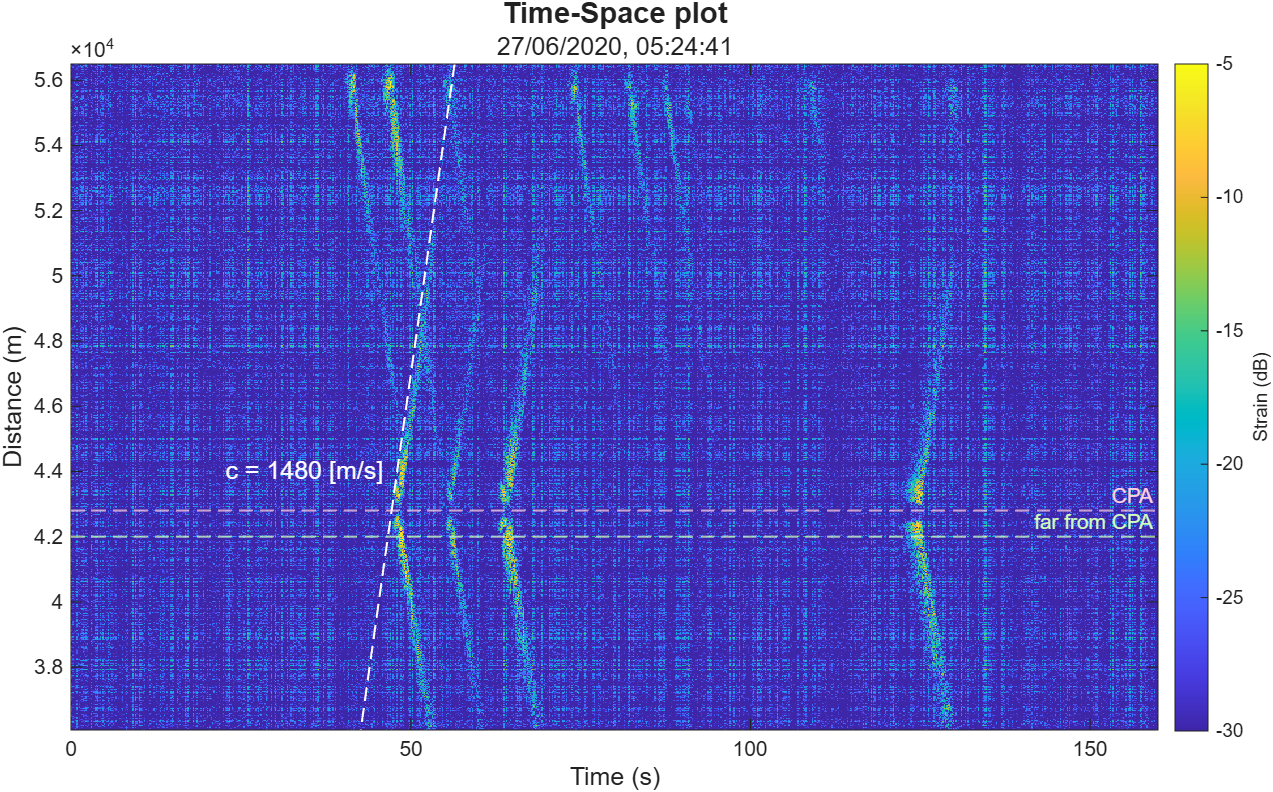
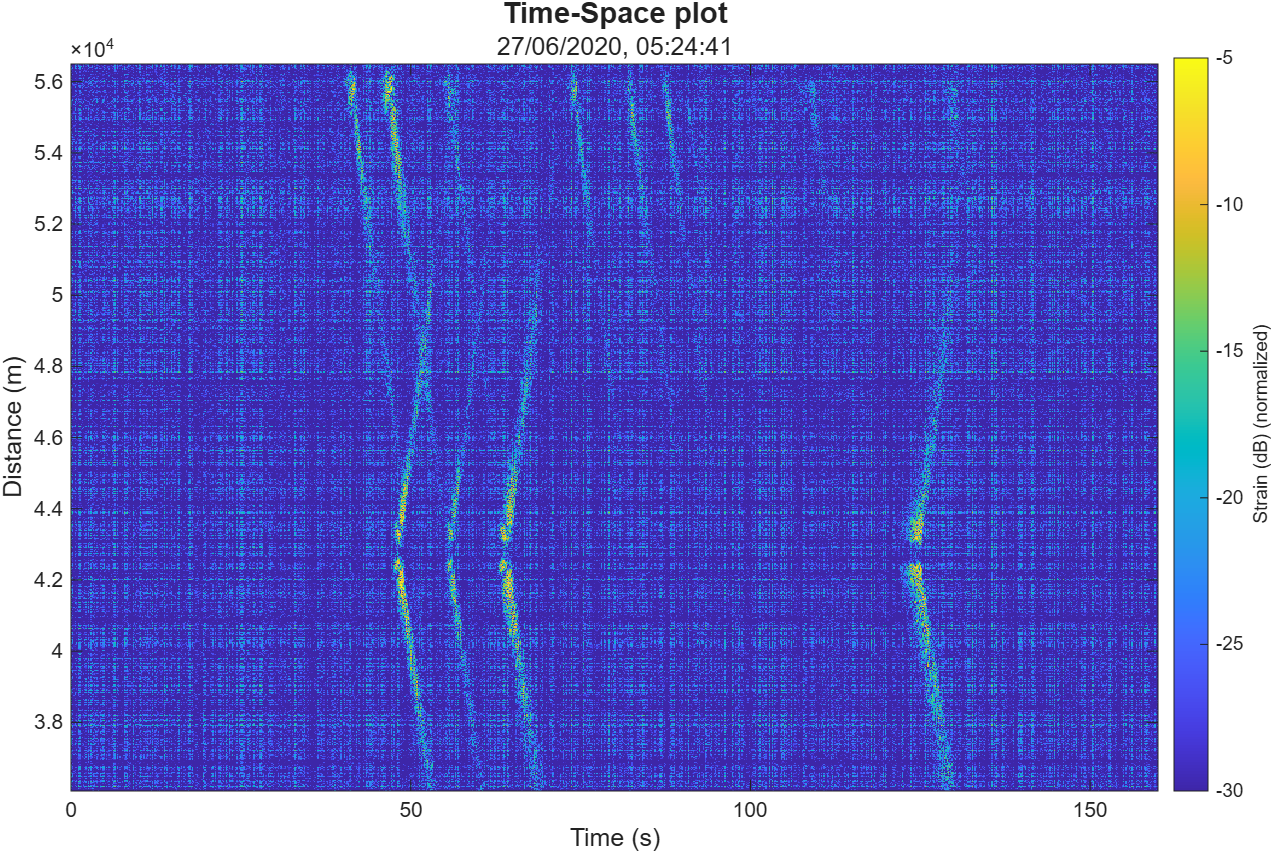
New experiments with cross-correlation and source localization

diff --git a/DAS_Trondheim.m b/DAS_Trondheim.m
@@ -44,7 +44,7 @@ clear channel_no
 % -----------------------------------------------------------------------%
 
 %% ELLY AND CABLE: SOURCE AND CHANNEL POSITION
-channel_no = 204;
+channel_no = 210;
 EllyCable.plot_source_channel(data.time_and_date, channel_no);
 
 % clear variables
@@ -145,13 +145,14 @@ tx = DAS.tx_plot();
 
 % time-space plot
 time_space_plot = get_time_space_plot( ...
-	strain_filtered, ...
+	strain_filtered(50:end, :), ...
 	data.time, ...
-	data.distance_m, ...
+	data.distance_m(50:end), ...
 	'subtitle', data.time_and_date, ...
     'time_lim', tx.time_lim, ...
 	'distance_lim', tx.distance_lim, ...
-	'strain_lim', tx.strain_lim);
+	'strain_lim', tx.strain_lim, ...
+	'norm', true);
 
 % draw propagation speed lines on time-space plot
 speedline = false;

diff --git a/Correlation_analysis.m b/Correlation_analysis.m
@@ -167,14 +167,14 @@ c = data.propagation_speed;
 
 d12 = channel_dist_12;
 pc = time_peak.*c;
-d1 = distance_from_CPA;
+d0 = distance_from_CPA;
 
 figure('Name', "TDOA * c", 'NumberTitle','off');
 plot(d12, pc, '-*');
 legend("TDOA * c");
 
-A = (pc.^2 + 2*d1.*d12 - d12.^2) ./ (2 .* pc);
-R = sqrt((A - d1) .* (A + d1));
+A = (pc.^2 + 2.*d0.*d12 - d12.^2) ./ (2 .* pc);
+R = sqrt(A.^2 - d0^2);
 R(imag(R) ~= 0) = NaN;
 
 figure('Name', "Source distance", 'NumberTitle','off');
@@ -197,7 +197,7 @@ legend("R estimate", "Linear regression");
 hold off
 
 figure(correlogram);
-dt= -0.2:data.sampling_interval_s:0.2;
+dt = -0.2:data.sampling_interval_s:0.2;
 
 R_med = median(R, 'omitnan');
 

diff --git a/DAS_for_ocean_application.m b/DAS_for_ocean_application.m
@@ -90,10 +90,11 @@ time_space_plot = get_time_space_plot( ...
 	'subtitle', data.time_and_date, ...
     'time_lim', tx.time_lim, ...
 	'distance_lim', tx.distance_lim, ...
-	'strain_lim', tx.strain_lim);
+	'strain_lim', tx.strain_lim, ...
+	'norm', true);
 
 % draw propagation speed lines on time-space plot
-speedline = true;
+speedline = false;
 if speedline
 	hold on;
 	draw_prop_speed_lines( ...

diff --git a/SetupAndConfiguration/DAS4Whale_cfg.m b/SetupAndConfiguration/DAS4Whale_cfg.m
@@ -185,7 +185,7 @@ function xcorr = correlation()
     xcorr.channel_position_m	= 42000; %[m]
     xcorr.offset_m				= 300; %[m]
     xcorr.time_lag				= 0.2; %[s]
-    xcorr.time_interval			= [47 50]; %[s]
+    xcorr.time_interval			= [55 58]; %[s]
     xcorr.cpa_m					= 42800; %[m]
     xcorr.filename_table		= fullfile('DAS4Whale/', 'cross_corr_stats_DAS4Whale.csv');
 end
